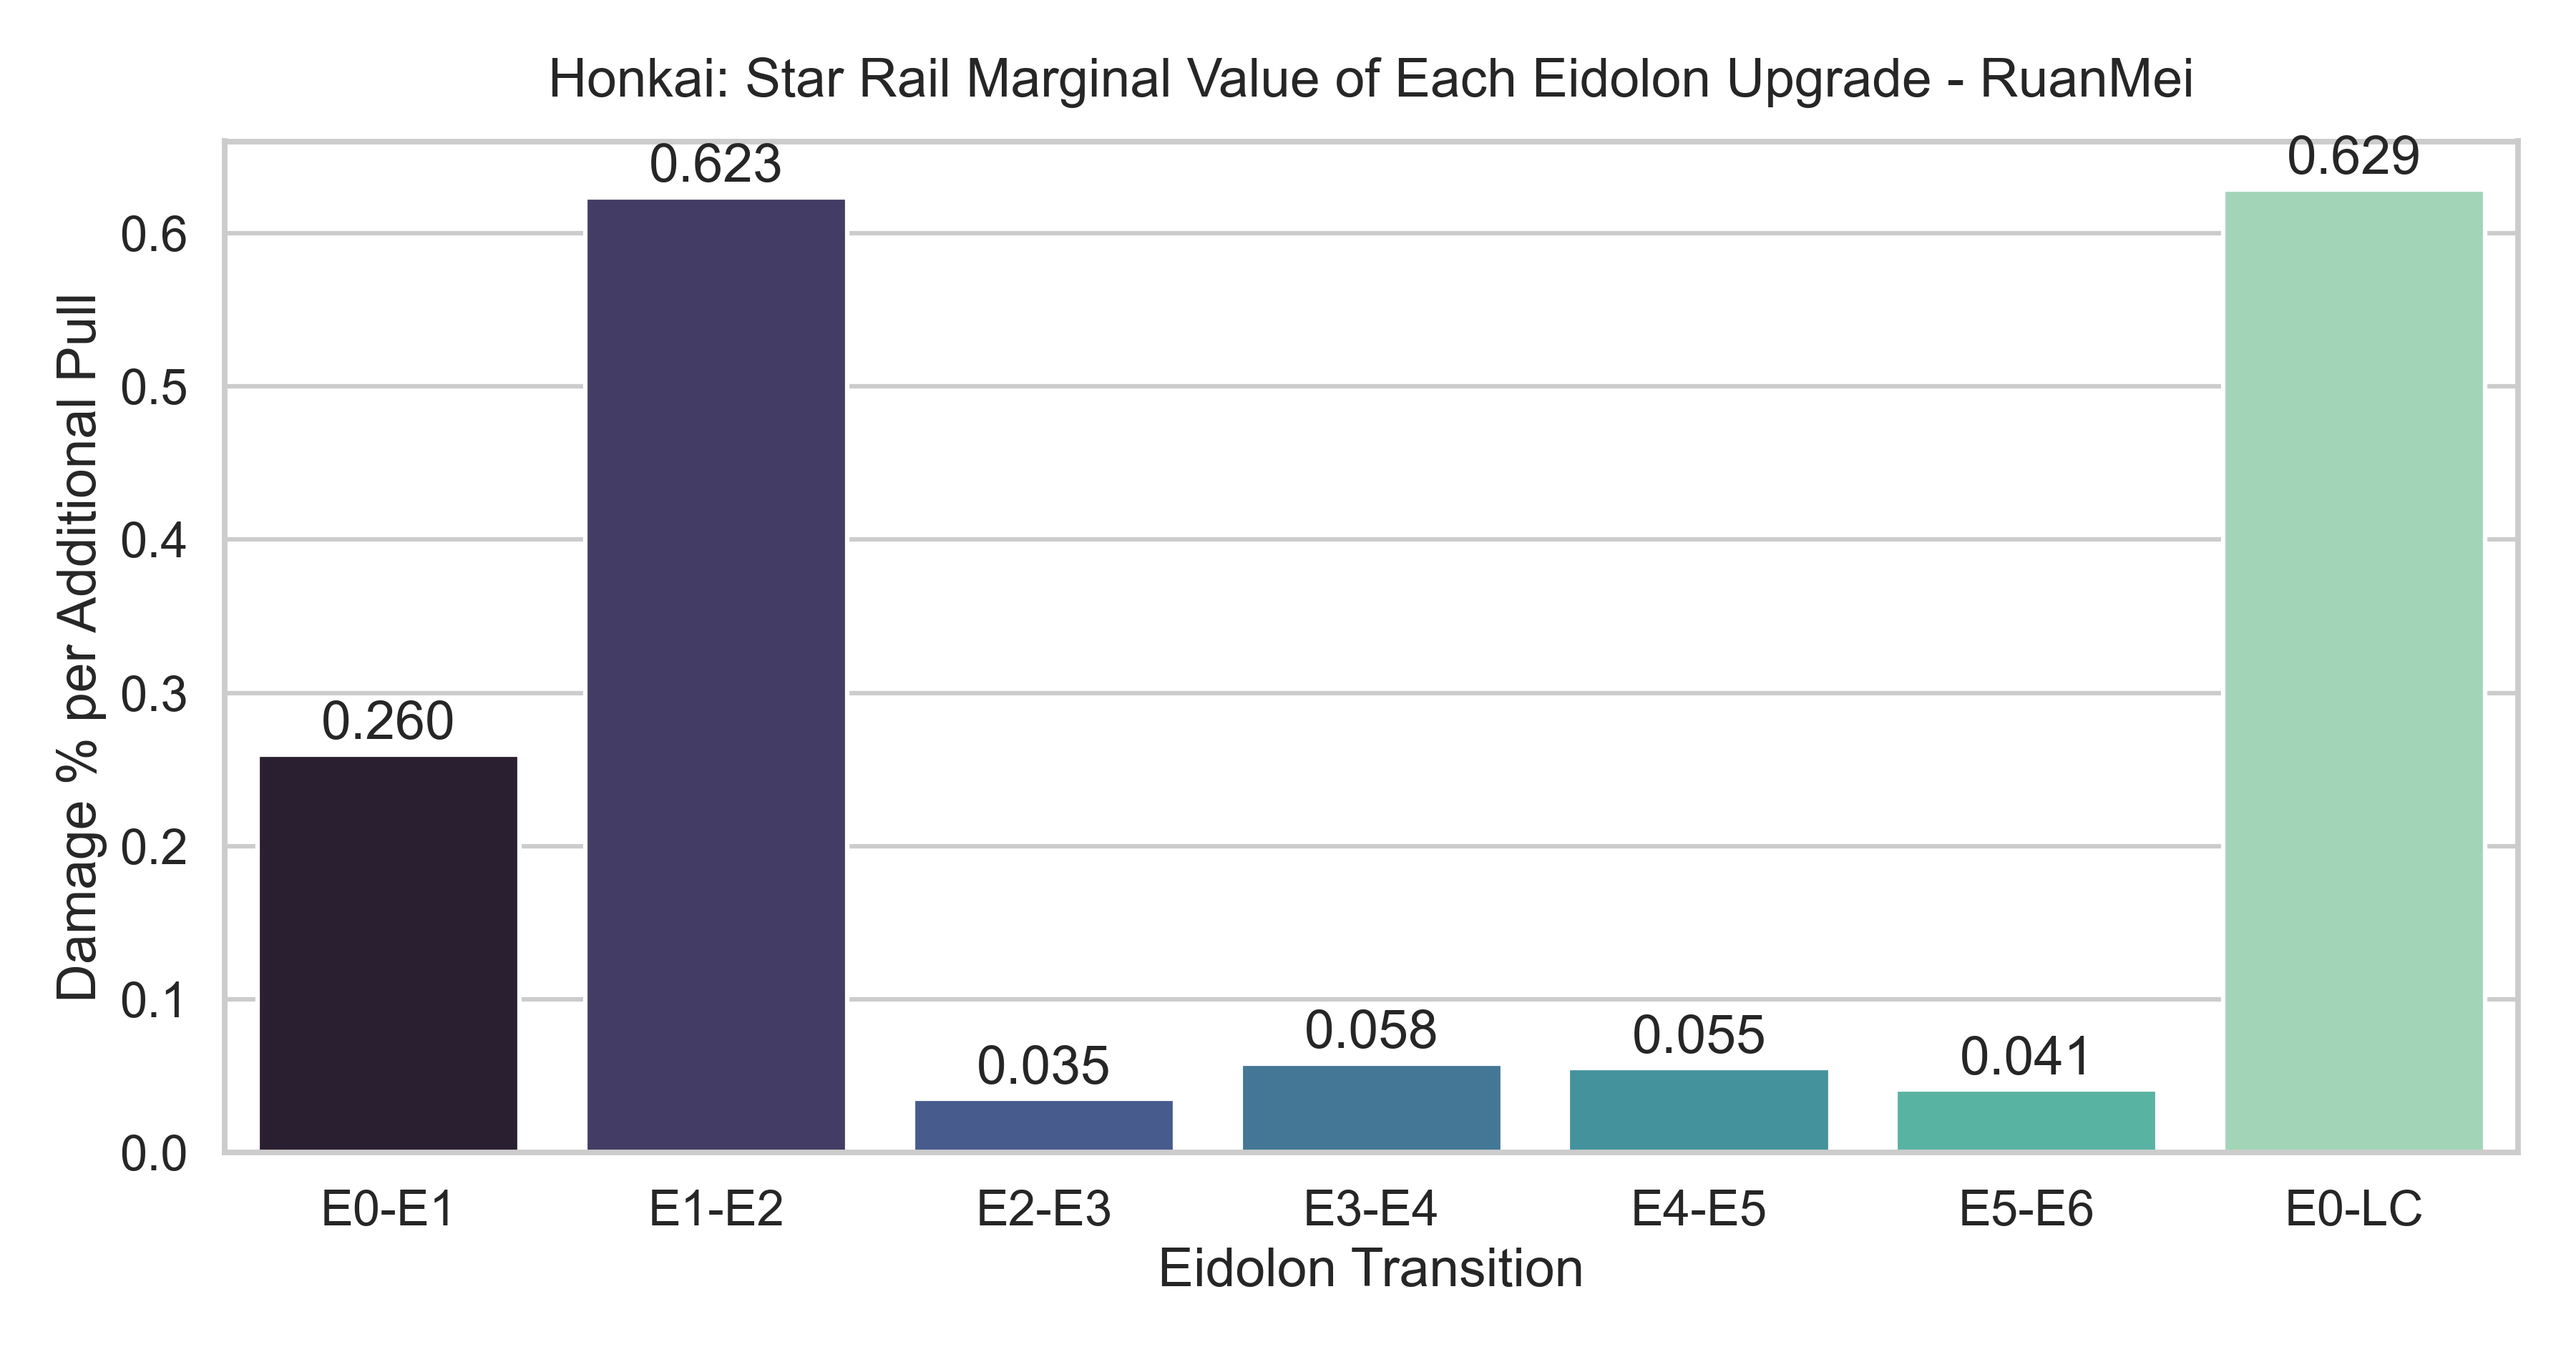
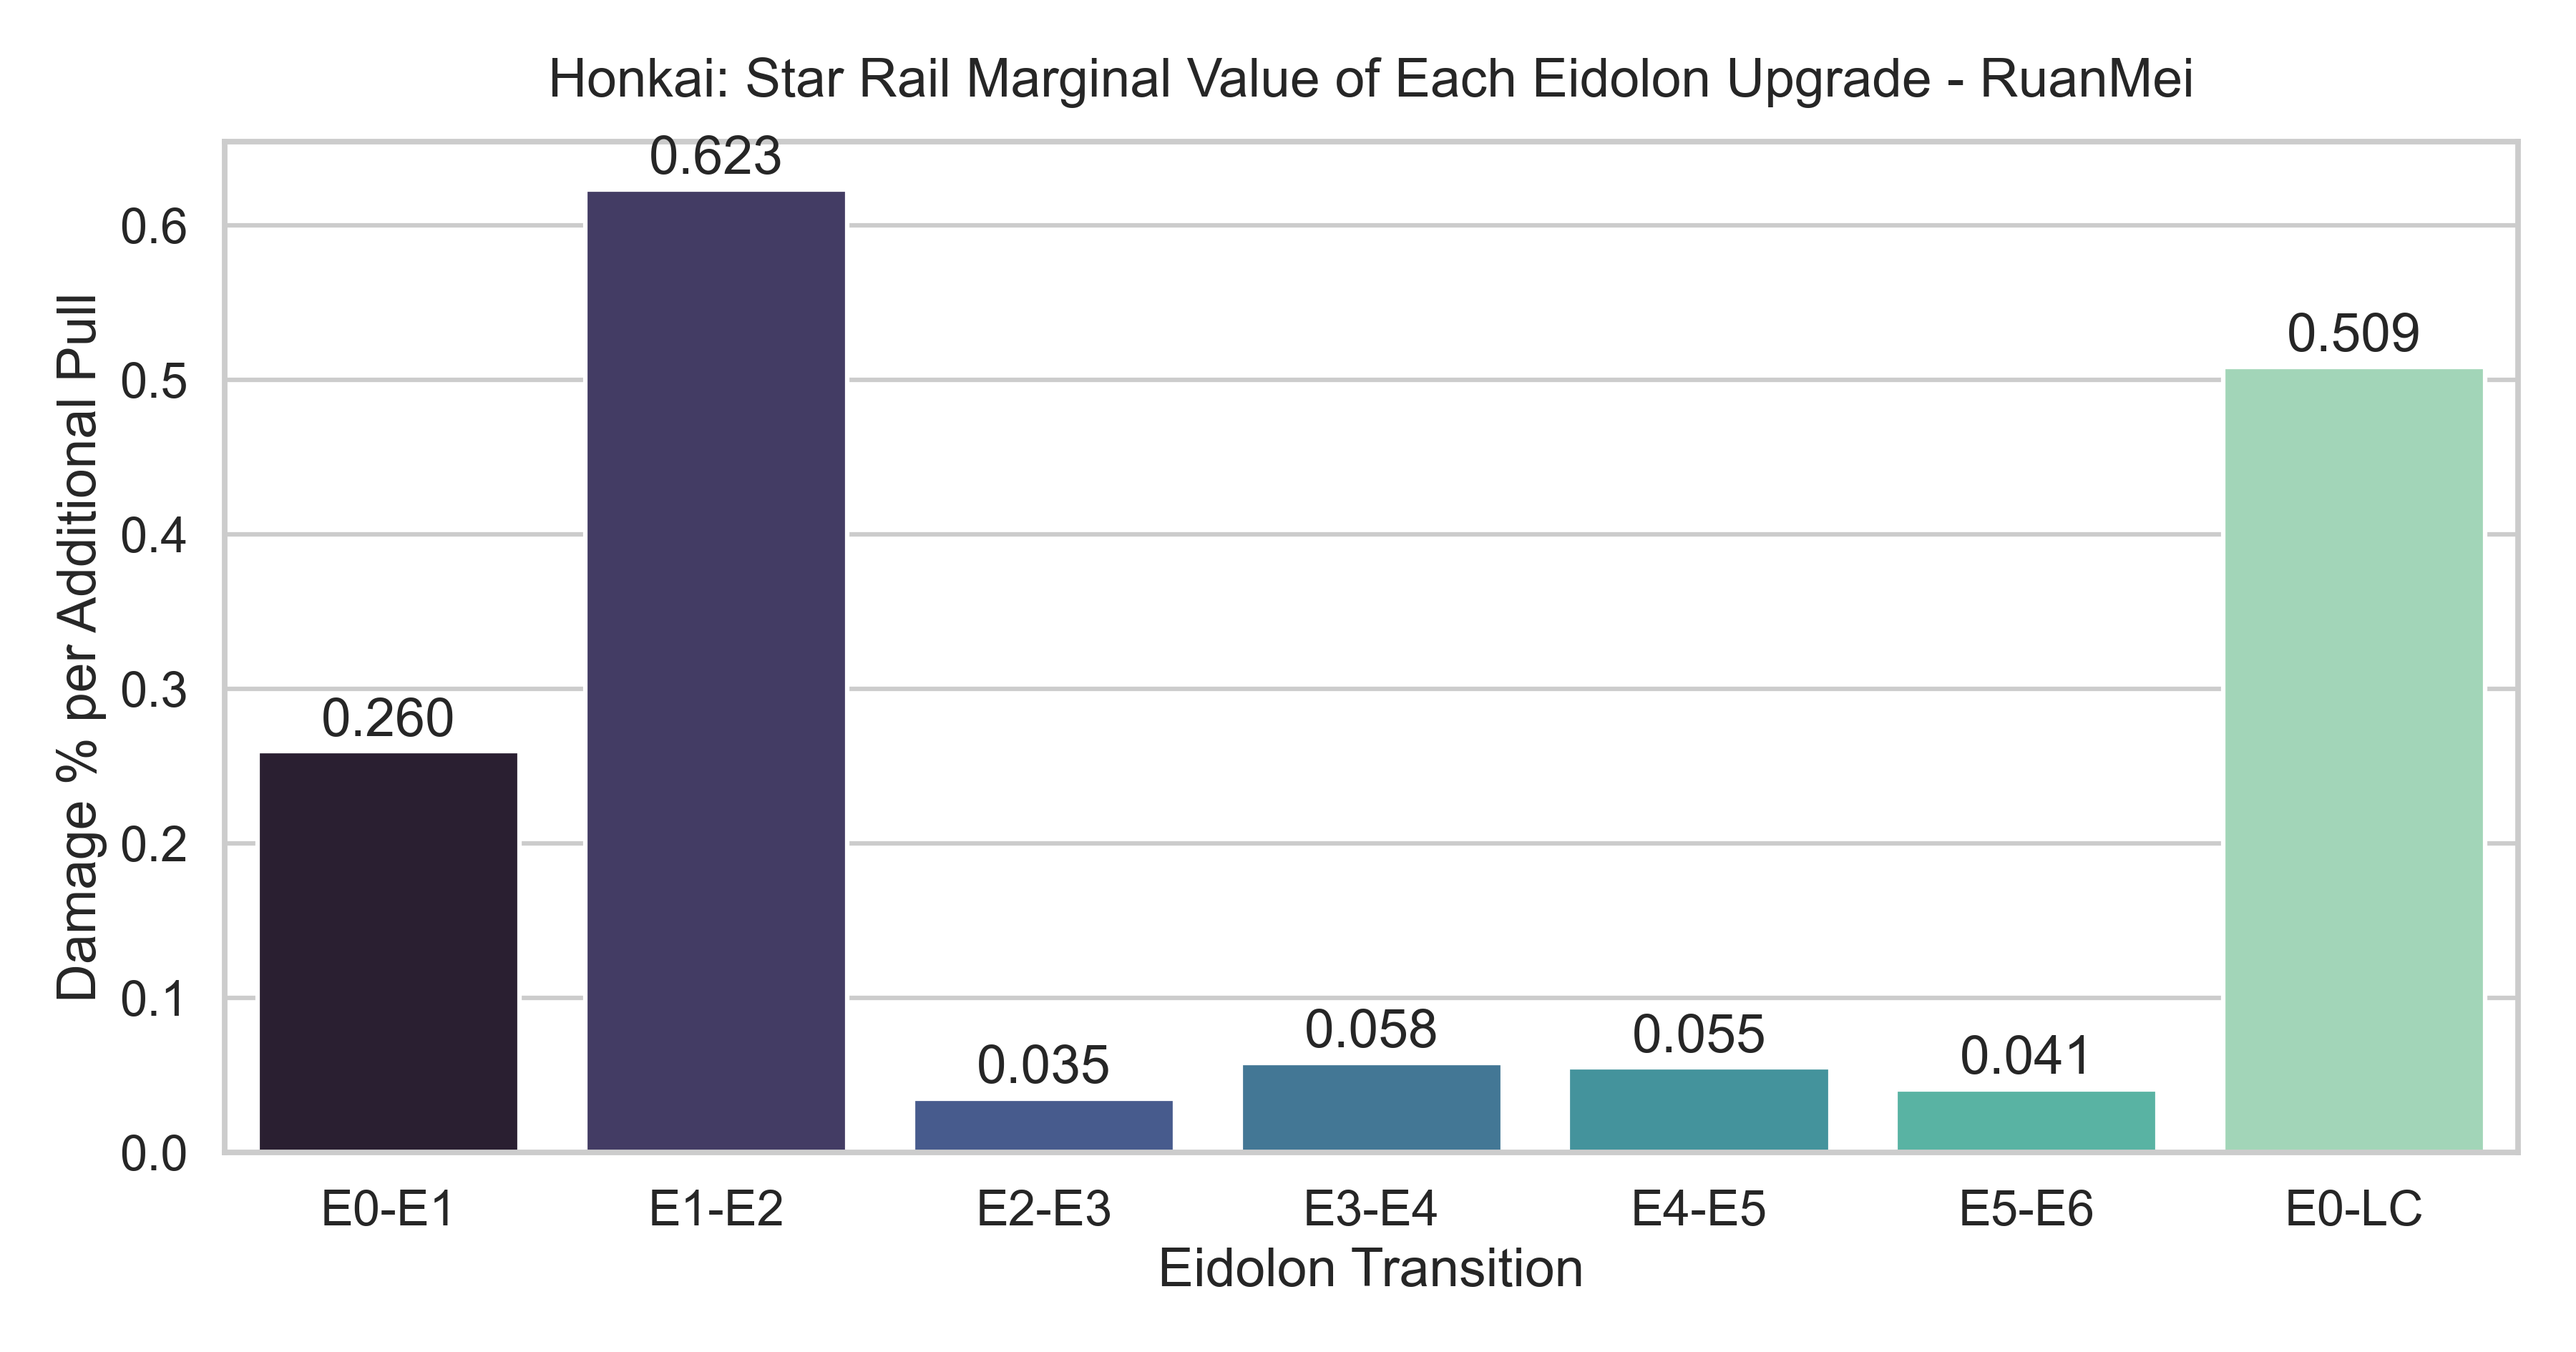
Add damage simulation method to calculate damage increase from energy regeneration in RuanMei class

diff --git a/simulations/characters/ruan_mei.py b/simulations/characters/ruan_mei.py
@@ -187,29 +187,37 @@ class RuanMei(Character):
         return self.calculate_percent_change(base_dmg, enhanced_dmg)
 
     def calculate_dmg_increased_from_energy_regen(self) -> float:
-        base_turn = 5
+        turns_per_wave = 5
         additional_energy_gain_per_wave = 10
-        energy_gain_per_turn = additional_energy_gain_per_wave / base_turn
 
         base_energy_regen = 30.0
-        base_turn_until_ult = self.ult_energy / base_energy_regen
-
-        new_energy_regen = base_energy_regen + energy_gain_per_turn
-        new_turn_until_ult = self.ult_energy / new_energy_regen
-
-        base_ult_used = base_turn / base_turn_until_ult
-        new_ult_used = base_turn / new_turn_until_ult
-
-        ult_dmg = self.calculate_dmg(self.atk, self.ult_multiplier)
-        non_skill_dmg = 1000
-
-        base_cycle_dmg = (ult_dmg * base_ult_used) + non_skill_dmg
-        new_cycle_dmg = (ult_dmg * new_ult_used) + non_skill_dmg
-
-        # Calculate damage increase
-        damage_increase = (new_cycle_dmg / base_cycle_dmg) - 1
-
-        return damage_increase
+       
+        def simulate_dmg(has_buff: bool = False) -> float:
+            ult_energy = self.ult_energy
+            current_ult_energy = 0
+            total_damage = 0
+            total_turns = 1000
+            
+            skil_dmg = self.calculate_dmg(self.atk, self.skill_multiplier)
+            ult_dmg = self.calculate_dmg(self.atk, self.ult_multiplier)
+            
+            for i in range(total_turns):
+                if i % turns_per_wave == 0 and has_buff:
+                    current_ult_energy += additional_energy_gain_per_wave
+                
+                if current_ult_energy >= ult_energy:
+                    total_damage += ult_dmg
+                    current_ult_energy = 0
+                else:
+                    total_damage += skil_dmg
+                    current_ult_energy += base_energy_regen
+                    
+            return total_damage
+            
+        base_dmg = simulate_dmg()
+        enhanced_dmg = simulate_dmg(True)
+       
+        return self.calculate_percent_change(base_dmg, enhanced_dmg)
 
     def calculate_dmg_increased_from_increased_ult_duration(self) -> float:
         """
